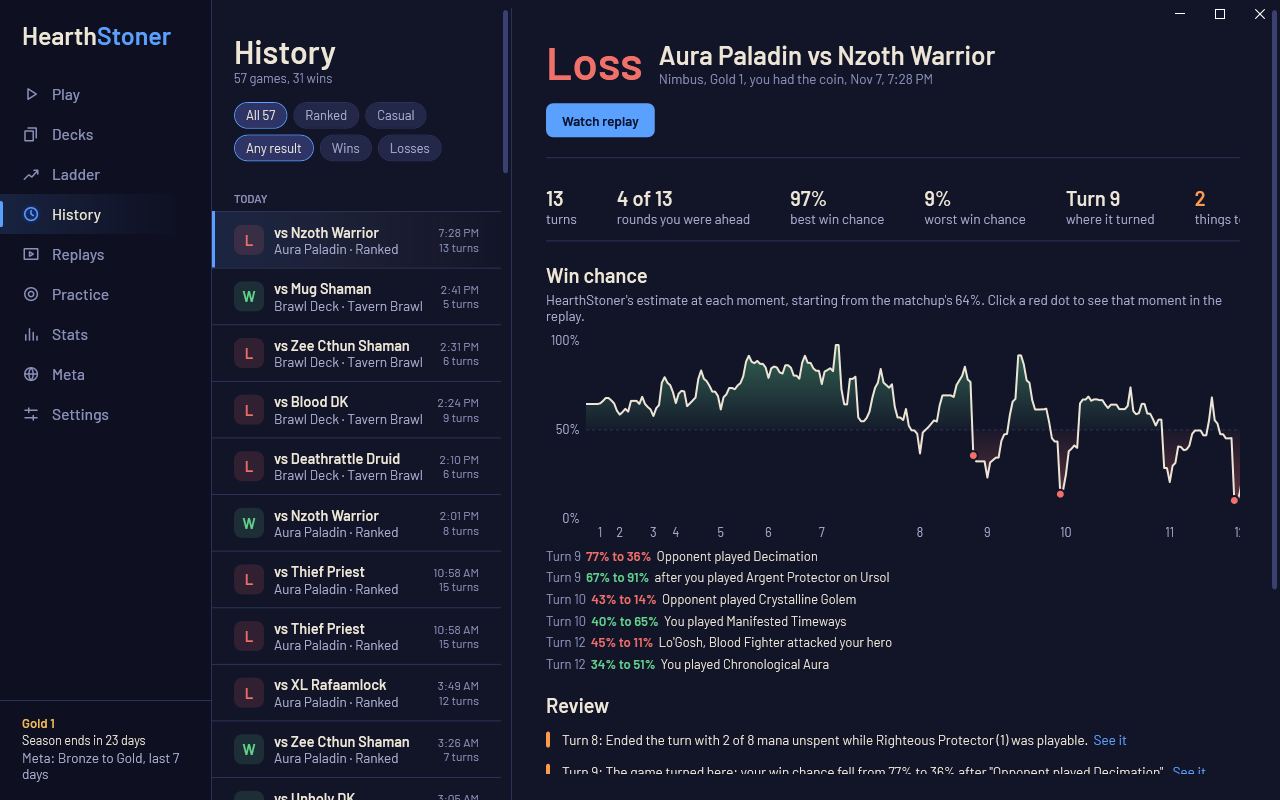
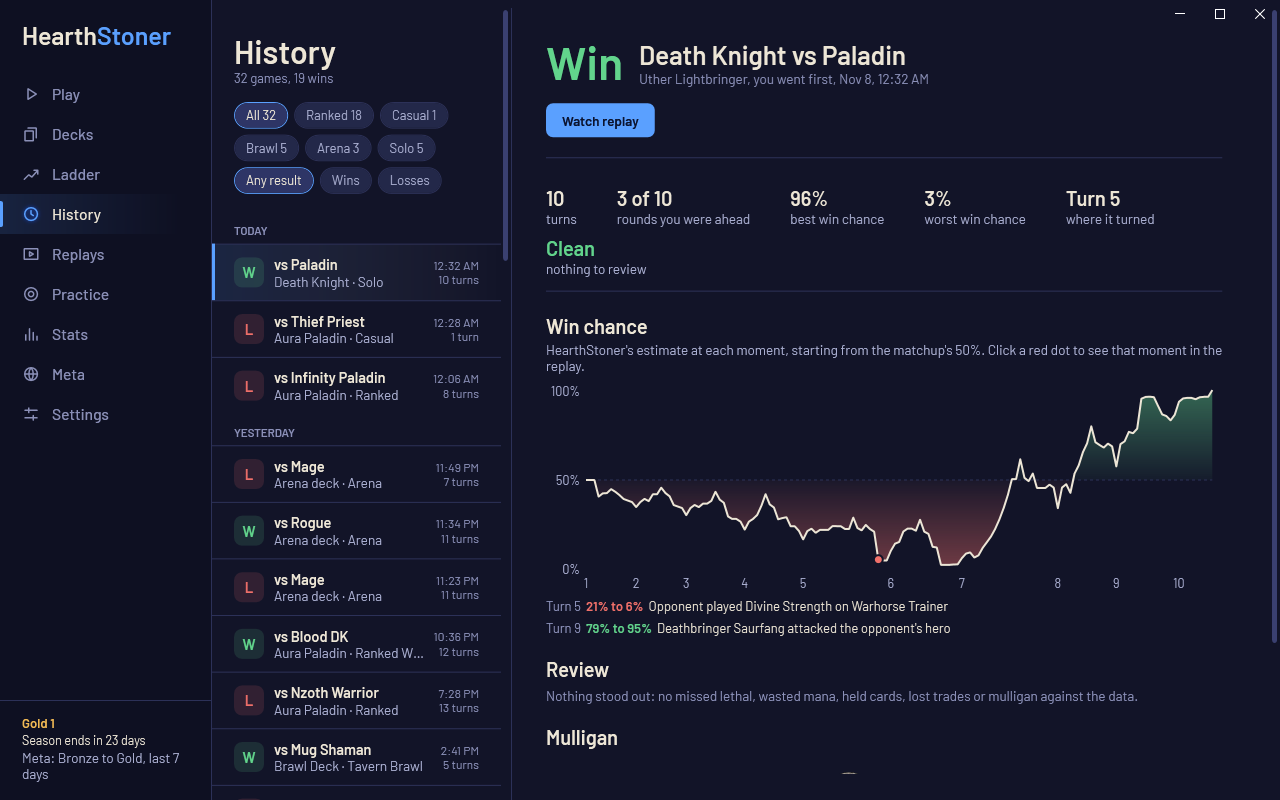
1.5.0 polish: no archetype for the AI's deck, "1 turn", new README pictures
- Games against the AI no longer get a ranked-deck name for the AI's deck ("vs Pure Paladin"); saved ones are
  cleared once.
- GameRecord.TurnsText: "1 turn" / "8 turns" in History, Replays, Stats and the advice.
- docs/screenshots: History (mode chips) and Stats (ranked and casual / all card modes).

diff --git a/Core/Game/GameRecord.cs b/Core/Game/GameRecord.cs
@@ -131,6 +131,8 @@ namespace HearthStoner.Game
         /// </summary>
         [JsonIgnore] public string DeckLabel => DeckName ?? MyArchetype ?? MetaStats.ClassName(MyClass) + ", deck not saved";
         [JsonIgnore] public TimeSpan Duration => End - Start;
+        /// <summary>"1 turn", "8 turns": your turns (the log counts both players').</summary>
+        [JsonIgnore] public string TurnsText => $"{(Turns + 1) / 2} turn{((Turns + 1) / 2 == 1 ? "" : "s")}";
 
         public static string Dir
         {
@@ -166,11 +168,13 @@ namespace HearthStoner.Game
                     var r = JsonConvert.DeserializeObject<GameRecord>(File.ReadAllText(f));
                     if (r == null) continue;
                     if (string.IsNullOrEmpty(r.GameType)) Relabel(r, f);
-                    // A game without a deck list can't have a deck archetype: one saved by 1.4.1 or older was the
-                    // previous game's (a solo game after a ranked one). Cleared once.
-                    if (r.MyArchetype != null && r.DeckCards.Count == 0)
+                    // Archetypes saved by 1.4.1 or older that can't be right, cleared once: yours on a game without a deck
+                    // list (the previous game's), and the opponent's against the AI (its decks aren't ranked archetypes).
+                    var solo = GameModes.Of(r.GameType) == GameModes.Kind.Solo;
+                    if ((r.MyArchetype != null && r.DeckCards.Count == 0) || (solo && r.OpponentArchetype != null))
                     {
-                        r.MyArchetype = null;
+                        if (r.DeckCards.Count == 0 || solo) r.MyArchetype = null;
+                        if (solo) { r.OpponentArchetype = null; r.OpponentArchetypeProbability = 0; }
                         File.WriteAllText(f, JsonConvert.SerializeObject(r, Formatting.Indented));
                     }
                     list.Add(r);

diff --git a/App/Pages/StatsPage.cs b/App/Pages/StatsPage.cs
@@ -185,7 +185,7 @@ namespace HearthStoner.Pages
                     BorderBrush = Theme.Vellum, BorderThickness = new Thickness(i == s.RecentGames.Count - 1 ? 2 : 0),
                     // A letter too, so wins and losses don't rely on telling green from red.
                     Child = new TextBlock { Text = g.Won ? "W" : "L", FontSize = 10.5, FontWeight = FontWeights.Bold, Foreground = g.Won ? Theme.B(Theme.Rgb(0x0B, 0x14, 0x30)) : Brushes.White, HorizontalAlignment = HorizontalAlignment.Center, VerticalAlignment = VerticalAlignment.Center },
-                    ToolTip = $"{(g.Won ? "Win" : "Loss")} vs {g.OpponentArchetype ?? MetaStats.ClassName(g.OpponentClass)}\n{g.DeckLabel} · {g.Start:MMM d, h:mm tt} · {(g.Turns + 1) / 2} turns\nClick to open in History",
+                    ToolTip = $"{(g.Won ? "Win" : "Loss")} vs {g.OpponentArchetype ?? MetaStats.ClassName(g.OpponentClass)}\n{g.DeckLabel} · {g.Start:MMM d, h:mm tt} · {g.TurnsText}\nClick to open in History",
                 };
                 var index = shell.Data.Games.IndexOf(g);
                 sq.MouseLeftButtonUp += (o, e) => { if (index < 0) return; shell.SelectedGame = index; shell.HistoryFilter = "All"; shell.HistoryResult = "Any"; shell.Show("History"); };

diff --git a/Core/Advice/Advisor.cs b/Core/Advice/Advisor.cs
@@ -252,7 +252,7 @@ namespace HearthStoner.Advice
         public static AdviceSection ReviewSection(GameRecord g)
         {
             var s = new AdviceSection($"Last game: {(g.Result == "WON" ? "Win" : g.Result == "LOST" ? "Loss" : "Ended")} vs {g.OpponentArchetype ?? MetaStats.ClassName(g.OpponentClass)}");
-            s.Add($"{g.DeckName ?? MetaStats.ClassName(g.MyClass)}, {(g.Turns + 1) / 2} turns, {(int)g.Duration.TotalMinutes} min, {(g.WentFirst ? "first" : "coin")}", Tone.Dim);
+            s.Add($"{g.DeckName ?? MetaStats.ClassName(g.MyClass)}, {g.TurnsText}, {(int)g.Duration.TotalMinutes} min, {(g.WentFirst ? "first" : "coin")}", Tone.Dim);
             if (g.Review.Count == 0) s.Add("No mistakes spotted.", Tone.Good);
             foreach (var n in g.Review.OrderByDescending(n => n.Severity).ThenBy(n => n.Turn).Take(8))
                 s.Add($"{(n.Turn > 0 ? $"T{(n.Turn + 1) / 2}: " : "")}{n.Text}", n.Severity >= 3 ? Tone.Bad : n.Severity == 2 ? Tone.Warn : Tone.Normal);

diff --git a/Core/Game/GameRecorder.cs b/Core/Game/GameRecorder.cs
@@ -289,9 +289,10 @@ namespace HearthStoner.Game
             _rec.MyClass = _game.HeroClass(me);
             _rec.WentFirst = _game.PlayerEntity(me)?.Flag("FIRST_PLAYER") ?? false;
             _rec.OpponentClass = _game.HeroClass(opp);
-            if (!arena)
+            if (!arena && GameModes.Of(_rec.GameType) != GameModes.Kind.Solo)
             {
-                // Archetypes come from ranked decks; drafted Arena decks don't play as one. No deck list, no archetype.
+                // Archetypes come from ranked decks; drafted Arena decks and the AI's decks don't play as one. No deck
+                // list, no archetype.
                 _rec.MyArchetype = _rec.DeckCards.Count > 0 ? _advisor.FriendlyArchetype?.Name : null;
                 var top = _advisor.TopOpponentArchetype();
                 _rec.OpponentArchetype = top.Name;

diff --git a/Core/Stats/SelfTest.cs b/Core/Stats/SelfTest.cs
@@ -265,7 +265,7 @@ namespace HearthStoner.Stats
             foreach (var g in games)
             {
                 if (!GameModes.IsCardGame(g.GameType)) { Info($"    game {g.Index}: {GameModes.Name(g.GameType, null)} (only its mode and result are kept)"); continue; }
-                var label = $"    game {g.Index} vs {MetaStats.ClassName(g.OppClass)}: {(g.Turns + 1) / 2} turns, {g.Result ?? "unfinished"}";
+                var label = $"    game {g.Index} vs {MetaStats.ClassName(g.OppClass)}: {(g.Turns + 1) / 2} turn{((g.Turns + 1) / 2 == 1 ? "" : "s")}, {g.Result ?? "unfinished"}";
                 if (g.Turns == 0) { Info(label + " (not finished in this log)"); continue; }
                 _out(label);
                 Check("      found which player is you", g.FriendlyId != 0);

diff --git a/App/Pages/HistoryPage.cs b/App/Pages/HistoryPage.cs
@@ -199,7 +199,7 @@ namespace HearthStoner.Pages
             Grid.SetColumn(names, 1);
             row.Children.Add(names);
             var when = new TextBlock { FontSize = 12, Foreground = Theme.Dusk, TextAlignment = TextAlignment.Right, VerticalAlignment = VerticalAlignment.Center, Margin = new Thickness(8, 0, 0, 0) };
-            when.Text = g.Start.ToString("h:mm tt") + "\n" + $"{(g.Turns + 1) / 2} turns";   // the date is in the day header
+            when.Text = g.Start.ToString("h:mm tt") + "\n" + g.TurnsText;   // the date is in the day header
             Grid.SetColumn(when, 2);
             row.Children.Add(when);
 

diff --git a/App/Pages/ReplayPage.cs b/App/Pages/ReplayPage.cs
@@ -133,7 +133,7 @@ namespace HearthStoner.Pages
             $"{(g.Won ? "Win" : g.Result == "LOST" ? "Loss" : "Game")} vs {g.OpponentArchetype ?? MetaStats.ClassName(g.OpponentClass)}";
 
         private static string Subtitle(GameRecord g) =>
-            $"{g.DeckName ?? MetaStats.ClassName(g.MyClass)}, {g.Start:MMM d, h:mm tt}, {(g.Turns + 1) / 2} turns";
+            $"{g.DeckName ?? MetaStats.ClassName(g.MyClass)}, {g.Start:MMM d, h:mm tt}, {g.TurnsText}";
 
         private static UIElement GameSwitcher(AppShell shell, List<GameRecord> games)
         {

diff --git a/CHANGELOG.md b/CHANGELOG.md
@@ -20,7 +20,8 @@ The Ladder, History and Stats pages tell the game modes apart, and two crashes-i
 - **Fixed:** the app crashed as a game ended when two minions had "infinite" attack (Hand of Infinity), and that
   game wasn't saved (it's recovered from the log). A practice or solo game no longer gets the last deck you queued,
   or its archetype: Decks.log's deck only counts for the first game after it, live and when importing (before,
-  only a deck of another class was caught). "1 times in 1 games" reads "once in 1 game".
+  only a deck of another class was caught). Games against the AI no longer get a ranked-deck name for the AI's
+  deck ("vs Pure Paladin"). "1 times in 1 games" reads "once in 1 game", and "1 turns" reads "1 turn".
 - **Removed modes:** Duels, Friendly challenges and the Twist format are gone from Hearthstone, so they're no longer
   named or offered as filters.
 
